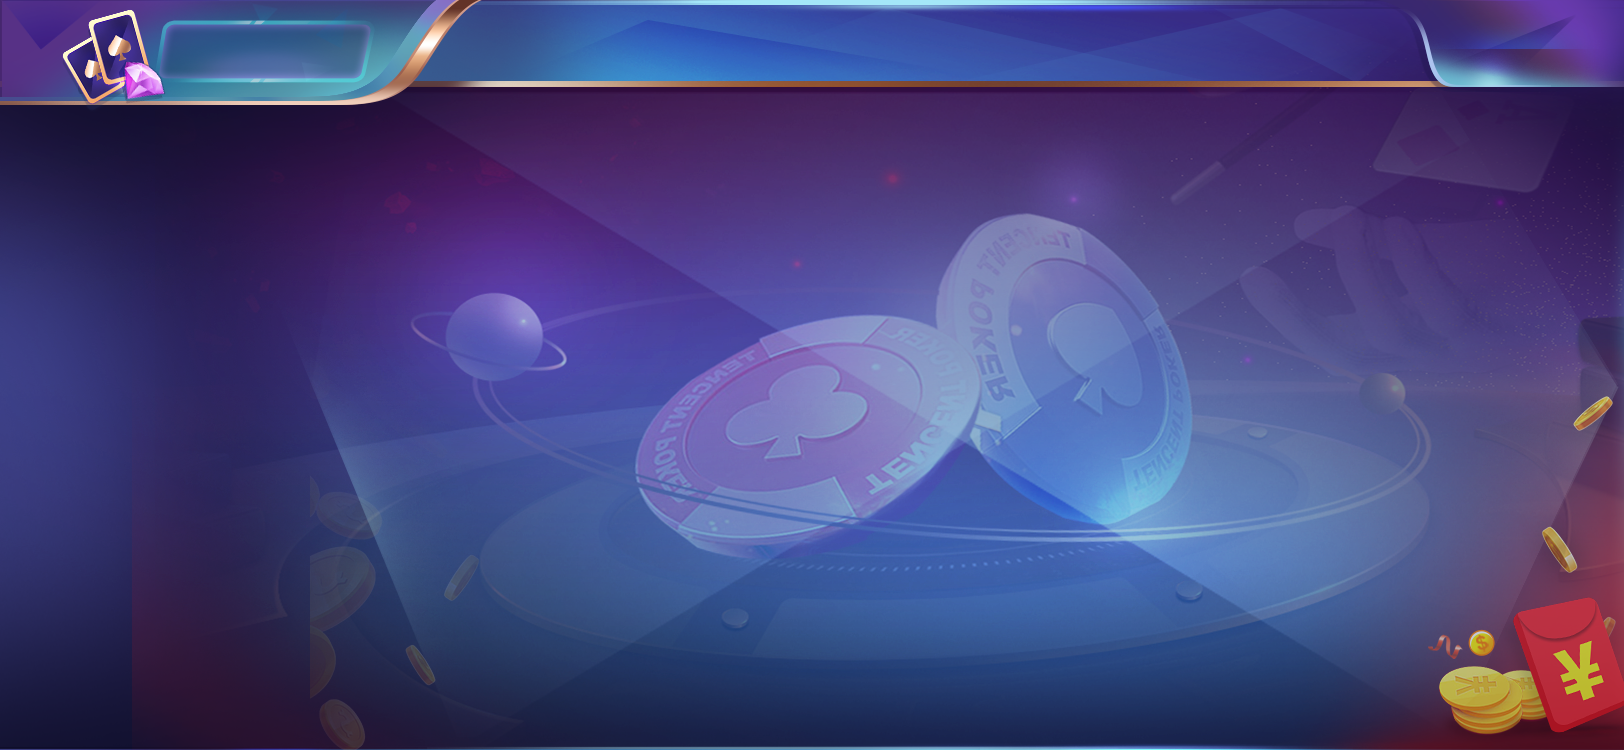
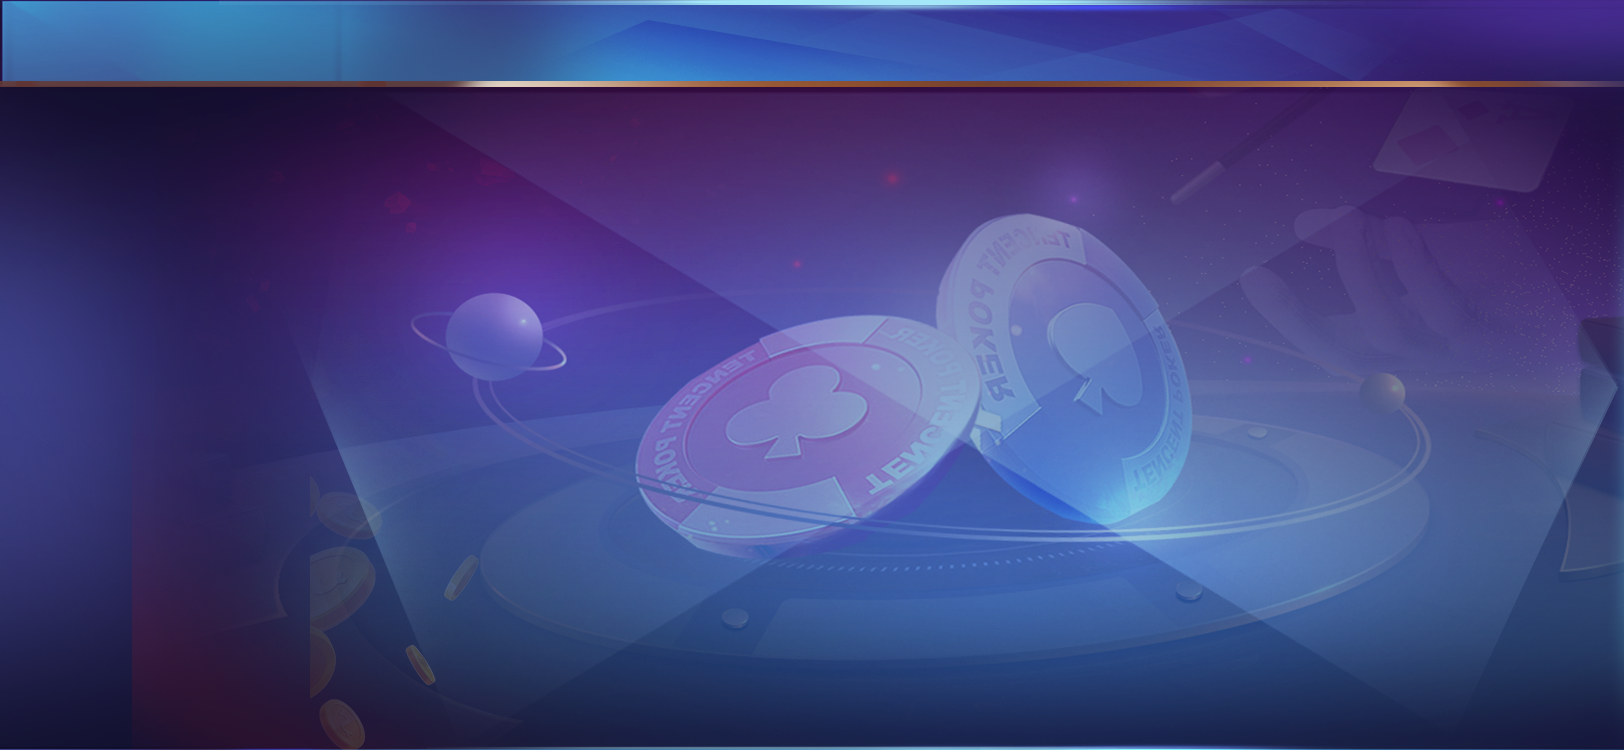
-增加VIP充值列表和公众号充值介面 -充值&提现：更新左上角icon样式，调整背景图片位置

Changed region(s): [[0.8313, 0.5213, 1.0, 1.0], [0.0, 0.0, 0.3079, 0.1533], [0.8621, 0.0, 1.0, 0.1227]]

diff --git a/src/Page/enter/game/pay/GamePayStepOne.js b/src/Page/enter/game/pay/GamePayStepOne.js
@@ -1,5 +1,5 @@
 import React, {Component} from "react";
-import {Image, ScrollView, StyleSheet, Text, TextInputComponent, TouchableOpacity, View,ImageBackground} from "react-native";
+import {Image, Clipboard, ScrollView, StyleSheet, Text, TextInputComponent, TouchableOpacity, View,ImageBackground} from "react-native";
 
 import {ASSET_Images} from "../../../asset";
 import TCImage from "../../../../Common/View/image/TCImage";
@@ -16,7 +16,7 @@ import {copyBtnStyle, indexBgColor, listViewTxtColor, payTxtColor, Size, width} 
 import payHelper from "../../../UserCenter/UserPay/PayHelper";
 import UserPayStore from "../../../../Data/store/UserPayStore";
 import BaseGameAlert from "../GameMoneyInView";
-
+import Toast from '../../../../Common/JXHelper/JXToast';
 import ModalInputDialog from "../../../../Common/View/ModalInputDialog";
 import ModalList from "../../../UserCenter/UserPay/View/ModalList";
 import TCButtonView from "../../../UserCenter/UserPay/TCUserPayNew";
@@ -63,22 +63,31 @@ export default class GamePayStepOne extends Component {
         let payList = TW_Store.userPayTypeStore.getPayList(itemData.code);
 
         payHelper.props = itemData;
-        let marginTop = itemData.code.indexOf("FIXED") === -1 ? 140:0
-        let height =itemData.code.indexOf("FIXED") === -1 ? SCREEN_H - 200 :SCREEN_H - 80
-        if(this.isChange){
+        let marginTop = (itemData.code.indexOf("FIXED") === -1 && itemData.code != "VIP") ? 140 : 0
+        let height = itemData.code.indexOf("FIXED") === -1 && itemData.code != "VIP" ? SCREEN_H - 200 : SCREEN_H - 80
+        if (this.isChange) {
             this.scrollListToStart();
         }
         return (<View style={styles.container}>
             {
-                itemData.code.indexOf("FIXED") === -1 ?(<View>
-                    <TCImage source={ASSET_Images.gameUI.stepOneBg1}  resizeMode={'contain'}/>
-                    <TCTextInput onChangeText={this.onInputChage} value={`${this.state.money}`} viewStyle={{position: "absolute", left:180, top: 6,}}
+                (itemData.code.indexOf("FIXED") === -1 && itemData.code != "VIP") ? (<View>
+                    <TCImage source={ASSET_Images.gameUI.stepOneBg1} resizeMode={'contain'}/>
+
+                    <TCTextInput onChangeText={this.onInputChage} value={`${this.state.money}`}
+                                 viewStyle={{position: "absolute", left: 180, top: 6,}}
                                  placeholder={"请输入金额"}
                                  keyboardType={"numeric"}
-                                 inputStyle={[styles.inputStyle, {fontSize: 14, textAlign:"center"}]}
+                                 inputStyle={[styles.inputStyle, {fontSize: 14, textAlign: "center"}]}
                                  placeholderTextColor={"rgb(132,168,168)"}
                                  maxLength={20}/>
-                    <View style={{position: "absolute", left: 2, top: 28, flexDirection: "row", flexWrap: "wrap", width: SCREEN_W-250}}>
+                    <View style={{
+                        position: "absolute",
+                        left: 2,
+                        top: 28,
+                        flexDirection: "row",
+                        flexWrap: "wrap",
+                        width: SCREEN_W - 250
+                    }}>
                         {this.moneyList.map((item, index) => {
                             return <BtnMoneyView key={"index" + index} style={{marginHorizontal: 1, marginBottom: 2}}
                                                  data={item}
@@ -86,23 +95,27 @@ export default class GamePayStepOne extends Component {
                                                  isSelect={`${item}` == `${this.state.money}`}/>
                         })}
                     </View>
-                    <TCImage source={ASSET_Images.gameUI.stepOneBg2} style={{marginTop:90}} resizeMode={'contain'}/>
+                    <TCImage source={ASSET_Images.gameUI.stepOneBg2} style={{marginTop: 90}} resizeMode={'contain'}/>
                     <TCButtonImg imgSource={ASSET_Images.gameUI.btn_onLine}
                                  soundName={TW_Store.bblStore.SOUND_ENUM.enterPanelClick}
                                  btnStyle={{position: "absolute", left: 308, top: 115,}} imgStyle={{}} onClick={() => {
                         TW_Store.gameUIStroe.showGusetView(true);
                     }}/>
-                </View>):null
+                </View>) : null
             }
             <View style={{position: "absolute", top: marginTop, left: 10}}>
-                {payList&&payList.length > 0 ? <TCFlatList ref={"payList"} style={{height: height,marginBottom:10}} dataS={payList}
-                                                           onScroll={this._scroll}
-                                                  renderRow={this.onRenderItemView}/> : this.getEmptyTip()}
+                {payList && payList.length > 0 ?
+                    <TCFlatList ref={"payList"} style={{height: height, marginBottom: 10}} dataS={payList}
+                                onScroll={this._scroll}
+                                renderRow={this.onRenderItemView}/> : this.getEmptyTip()}
 
             </View>
             {
-                this.state.showArrow&&payList&&payList.length > 0&&<TCButtonImg imgSource={ASSET_Images.gameUI.downArrow} btnStyle={{position: "absolute",top:SCREEN_H -115,left:SCREEN_W*0.5-115}} resizeMode={'stretch'}
-                                                       onClick={()=>this.scrollList() }/>
+                this.state.showArrow && payList && payList.length > 0 &&
+                <TCButtonImg imgSource={ASSET_Images.gameUI.downArrow}
+                             btnStyle={{position: "absolute", top: SCREEN_H - 115, left: SCREEN_W * 0.5 - 115}}
+                             resizeMode={'stretch'}
+                             onClick={() => this.scrollList()}/>
             }
             <ModalList
                 show={this.userPayStore.showList}
@@ -122,10 +135,10 @@ export default class GamePayStepOne extends Component {
                     this.userPayStore.showInputName = false
                 }}
                 btnRightClick={(inputData) => {
-                    let {realname,phoneNum,cardNo} = inputData
+                    let {realname, phoneNum, cardNo} = inputData
                     // let reg = /^([\s\u4e00-\u9fa5]{1}([·•● ]?[\s\u4e00-\u9fa5]){1,14})$|^[a-zA-Z\s]{4,30}$/;
                     // if (payHelper.payData.realNameReq && !realname.match(reg)) {
-                    //     Toast.showShortCenter("请输入正确的存款人姓名")
+                    // Toast.showShortCenter("请输入正确的存款人姓名")
                     //     return false;
                     // }
                     // reg = /^134[0-8]\d{7}$|^13[^4]\d{8}$|^14[5-9]\d{8}$|^15[^4]\d{8}$|^16[6]\d{8}$|^17[0-8]\d{8}$|^18[\d]{9}$|^19[8,9]\d{8}$/
@@ -138,9 +151,9 @@ export default class GamePayStepOne extends Component {
                     //     Toast.showShortCenter("请输入正确的银行卡号")
                     //     return false;
                     // }
-                    payHelper.payData.realName = realname?realname:"";
-                    payHelper.payData.mobileNo = phoneNum?phoneNum:"";
-                    payHelper.payData.cardNo = cardNo?cardNo:"";
+                    payHelper.payData.realName = realname ? realname : "";
+                    payHelper.payData.mobileNo = phoneNum ? phoneNum : "";
+                    payHelper.payData.cardNo = cardNo ? cardNo : "";
                     this.userPayStore.showInputName = false;
                     this.gotoPay(payHelper.payData)
 
@@ -201,7 +214,7 @@ export default class GamePayStepOne extends Component {
     }
 
     onRenderItemView = (data, index) => {
-      //  TW_Log("GamePayStepOne---onRenderItemView--" + index, data);
+        //TW_Log("GamePayStepOne---onRenderItemView--" + index, data);
         let {itemData} = this.props;
         if (itemData.code == 'BANK') {
             let bank = data;
@@ -230,6 +243,31 @@ export default class GamePayStepOne extends Component {
                     </View>
                 </View>
             </TouchableOpacity>)
+        } else if (itemData.code == 'VIP') {
+            let vip = data;
+            return (
+                <View style={{width: SCREEN_W - 350, height: 100, justifyContent: "center"}}>
+                    <TCImage source={ASSET_Images.gameUI.listItemVIPBg}
+                             style={{position: "absolute", width: SCREEN_W - 350, height: 80}}/>
+                    <View style={{flexDirection: "row"}}>
+                        <Text style={{color: "#F9CB46", fontSize: 14, fontWeight: "bold", marginLeft: 50, marginBottom: 15,width:100}}>支付宝快捷支付</Text>
+                        <TouchableOpacity
+                            activeOpacity={0.6}
+                            style={{marginLeft: SCREEN_W - 560,
+                                justifyContent: 'center',}}
+                            onPress={() => this.onCopy(vip.methodInfo)}>
+                            <Text style={styles.itemBtnTxtStyle}>复制</Text>
+                        </TouchableOpacity>
+                    </View>
+                    <View style={{flexDirection: "row"}}>
+                        <Text style={{color: "#A2E1EE", fontSize: 14, marginLeft:50, marginBottom:10,flexWrap:'wrap'}}>微信帐号：</Text>
+                        <Text style={{color: "#FFFFFF", fontSize: 14}}>{vip.methodInfo}</Text>
+                    </View>
+                    <View style={{flexDirection: "row"}}>
+                        <Text style={{color: "#A2E1EE", fontSize: 14, marginLeft:50, flexWrap:'wrap'}}>需添加好友，请在添加转帐说明输如会员帐号</Text>
+                    </View>
+
+                </View>)
         } else if(itemData.code.indexOf("FIXED")!=-1){
             let paymentItem = data;
             let itemHeight = 0;
@@ -247,7 +285,7 @@ export default class GamePayStepOne extends Component {
                 itemHeight = 45 * rowCount;
             }
 
-            TW_Log("paymentItem---"+this.state.slectedItem);
+            TW_Log("paymentItem---"+this.state.selectedItem);
             return(
                 (<View style={{width: SCREEN_W - 250,height: 40 + itemHeight,alignItems: "center",marginBottom:5,justifyContent:'center'}}>
                     <TCImage source={ASSET_Images.gameUI.fixedListItemBg}
@@ -359,7 +397,15 @@ export default class GamePayStepOne extends Component {
         )
     }
 
-
+    /**
+     * copy
+     * @param text
+     */
+    onCopy(text) {
+        TW_Store.bblStore.playSoundByFile(TW_Store.bblStore.SOUND_ENUM.click);
+        Clipboard.setString(text);
+        Toast.showShortCenter("已复制！")
+    }
 
     /**
      * 渲染银行列表

diff --git a/src/Page/enter/game/GameMoneyInView.js b/src/Page/enter/game/GameMoneyInView.js
@@ -62,9 +62,7 @@ export default class GameMoneyInView extends Component {
     }
 
     componentWillMount(): void {
-        TW_Log("onMessage======GameMoneyInView=====>>Benny>>componentWillMount");
         this.userPayStore.selectPayType((res) => {
-            TW_Log("onMessage======GameMoneyInView=====>>Benny>>selectPayType");
             if (res.status) {
                // this.gotoPayPage(item.code);
                 this.setState({test:""})
@@ -84,11 +82,11 @@ export default class GameMoneyInView extends Component {
         let fullWithStyle= SCREEN_ISFULL ? {width:SCREEN_W*0.22}:null
         return (<View style={styles.container} pointerEvents={pointerEvents}>
             <TCImage source={ASSET_Images.gameUI.moneyInBg} style={{ width:SCREEN_W, height:SCREEN_H}} resizeMode={'stretch'}/>
-           {/* <TCImage source={ASSET_Images.gameUI.payTopLeftBg} style={{position: "absolute",width:SCREEN_W*0.35,height:SCREEN_H*0.15}} resizeMode={'contain'}/>*/}
+            <TCImage source={ASSET_Images.gameUI.payTopLeftBg} style={{position: "absolute",width:SCREEN_W*0.30,height:SCREEN_H*0.15}} resizeMode={'contain'}/>
             <TCImage source={ASSET_Images.gameUI.payTopIcon} style={{position: "absolute",width:SCREEN_W*0.08,height:SCREEN_H*0.15,left:SCREEN_W*0.02,top:5}} resizeMode={'stretch'}/>
             <TCImage source={ASSET_Images.gameUI.payTopTxt} style={{position: "absolute",left:SCREEN_W*0.12,top:13}} resizeMode={'contain'}/>
-
-            {/*<TCImage source={ASSET_Images.gameUI.payBackBg} style={{position: "absolute",right: 0, top: 0,width:SCREEN_W*0.25,height:SCREEN_H*0.13}} resizeMode={'stretch'}/>*/}
+            <TCImage source={ASSET_Images.gameUI.moneyBottomBg} style={{position: "absolute",right:0,bottom:0}} resizeMode={'contain'}/>
+            <TCImage source={ASSET_Images.gameUI.payBackBg} style={{position: "absolute",right: 0, top: 0,width:SCREEN_W*0.15,height:SCREEN_H*0.12}} resizeMode={'stretch'}/>
             <TCButtonImg imgSource={ASSET_Images.gameUI.payBack}
                          onClick={() => TW_Store.gameUIStroe.isShowAddPayView = false}
                          soundName={TW_Store.bblStore.SOUND_ENUM.returnLobbyClick}

diff --git a/src/Page/enter/game/pay/BtnPayType.js b/src/Page/enter/game/pay/BtnPayType.js
@@ -27,10 +27,12 @@ export default class BtnPayType extends Component {
 
 
     render() {
-        let {isSelect,data} = this.props
+        let {isSelect, data} = this.props
         return (<TouchableWithoutFeedback onPress={this.onSelect}>
-                <View style={{ justifyContent:"center", alignItems:"center",height:50}}>
-                    <TCImage  source={isSelect ? ASSET_Images.gameUI.btnPayHight : ASSET_Images.gameUI.btnPayNormal}  resizeMode={'stretch'}/>
+                <View style={{justifyContent: "center", alignItems: "center", height: 50}}>
+                    <TCImage source={isSelect ? ASSET_Images.gameUI.btnPayHight :
+                        data.code == "VIP" ? ASSET_Images.gameUI.btnPayVIPNormal : ASSET_Images.gameUI.btnPayNormal}
+                             resizeMode={'stretch'}/>
                     <View style={{
                         position: "absolute", alignItems: "center", justifyContent: "center",
                     }}>
@@ -40,7 +42,7 @@ export default class BtnPayType extends Component {
                                      style={{marginRight: 5}}/>
                             {/*<View style={{justifyContent:"center", alignItems:"center"}}>*/}
                             {/*<TCImage source={this.getPayName(data.code)}/>*/}
-                                {/*{this.isFinxePay(data.code) ? <TCImage source={ASSET_Images.gameUI.title_fix}/>:null}*/}
+                            {/*{this.isFinxePay(data.code) ? <TCImage source={ASSET_Images.gameUI.title_fix}/>:null}*/}
                             {/*</View>*/}
                         </View>
                     </View>

diff --git a/src/Page/enter/game/GameMoneyOutView.js b/src/Page/enter/game/GameMoneyOutView.js
@@ -43,8 +43,11 @@ export default class GameMoneyOutView extends Component {
 
         return (<View style={styles.container} pointerEvents={pointerEvents}>
             <TCImage source={ASSET_Images.gameUI.moneyInBg} style={{ width:SCREEN_W, height:SCREEN_H}} resizeMode={'stretch'}/>
+            <TCImage source={ASSET_Images.gameUI.payTopLeftBg} style={{position: "absolute",width:SCREEN_W*0.30,height:SCREEN_H*0.15, left:SCREEN_W*0.0,top:0.01}}/>
             <TCImage source={ASSET_Images.gameUI.iconMoneyOut} style={{position: "absolute",width:SCREEN_W*0.08,height:SCREEN_H*0.11,left:SCREEN_W*0.03,top:5}} resizeMode={'stretch'}/>
             <TCImage source={ASSET_Images.gameUI.titleMoneyOut} style={{position: "absolute",width:SCREEN_W*0.1,height:SCREEN_H*0.06,left:SCREEN_W*0.11,top:SCREEN_H*0.05 - 5}} resizeMode={'contain'}/>
+            <TCImage source={ASSET_Images.gameUI.moneyBottomBg} style={{position: "absolute",right:0,bottom:0}} resizeMode={'contain'}/>
+            <TCImage source={ASSET_Images.gameUI.payBackBg} style={{position: "absolute",right: 0, top: 0,width:SCREEN_W*0.15,height:SCREEN_H*0.12}} resizeMode={'stretch'}/>
             <TCButtonImg imgSource={ASSET_Images.gameUI.payBack}
                          soundName={TW_Store.bblStore.SOUND_ENUM.returnLobbyClick}
                          onClick={() => TW_Store.gameUIStroe.isShowWithDraw = false}

diff --git a/src/Page/asset/images.js b/src/Page/asset/images.js
@@ -186,6 +186,7 @@ export const gameUI = {
     bangNumBg:require('./game/moneyOut/img_tx_bangBg.png'),
     //moneyPay
     moneyInBg:require('./game/moneyPay/moneyInBg.png'),
+    moneyBottomBg:require('./game/moneyPay/moneyBottomBg.png'),
     btn_onLine:require('./game/moneyPay/btn_guset_online.png'),
     title_pay:require('./game/moneyPay/title_payType.png'),
     title_qr:require('./game/moneyPay/title_qrCode.png'),
@@ -212,6 +213,7 @@ export const gameUI = {
 
     btnPayNormal:require('./game/moneyPay/btnPayNormal.png'),
     btnPayHight:require('./game/moneyPay/btnPayHight.png'),
+    btnPayVIPNormal:require('./game/moneyPay/btnPayVIPNormal.png'),
     btnMoneyHight:require('./game/moneyPay/btnMoneyHight.png'),
     btnMoneyBg:require('./game/moneyPay/btnMoneyBg.png'),
     //btn
@@ -229,6 +231,7 @@ export const gameUI = {
     stepOneBg2:require('./game/moneyPay/stepOnebg2.png'),
 
     listItemBg:require('./game/moneyPay/listItemBg.png'),
+    listItemVIPBg:require('./game/moneyPay/listItemVIPBg.png'),
     fixedListItemBg:require('./game/moneyPay/pay_type_fixed_bg.png'),
     fixedListItemBg1:require('./game/moneyPay/pay_type_fixed_bg1.png'),
     moneyLabelBg:require('./game/moneyPay/money_label_bg.png'),

diff --git a/src/Common/Network/TCRequestConfig.js b/src/Common/Network/TCRequestConfig.js
@@ -71,7 +71,7 @@ export const config = {
 
         getbankList: 'cashmgt/me/cards/list', //用户绑卡银行卡列表
         //获取支付类型列表
-        paymentTypeList4: 'cashmgt/me/payments/nameV4',
+        paymentTypeList4: 'cashmgt/me/payments/name',
         //获取网银支付的银行卡列表
         getPaymentBankList: 'cashmgt/me/paymentbanklist',
 

diff --git a/src/Common/Network/TCRequestService.js b/src/Common/Network/TCRequestService.js
@@ -241,7 +241,7 @@ export function addFeedBack(params, callback) {
  * @param callback
  */
 export function getPaymentTypeList(callback) {
-    RequestUtils.getUrlAndParamsAndCallback(config.api.paymentTypeList4, null, callback);
+    RequestUtils.getUrlAndParamsAndCallback(config.api.paymentTypeList4, {version:5}, callback);
 }
 
 /**
